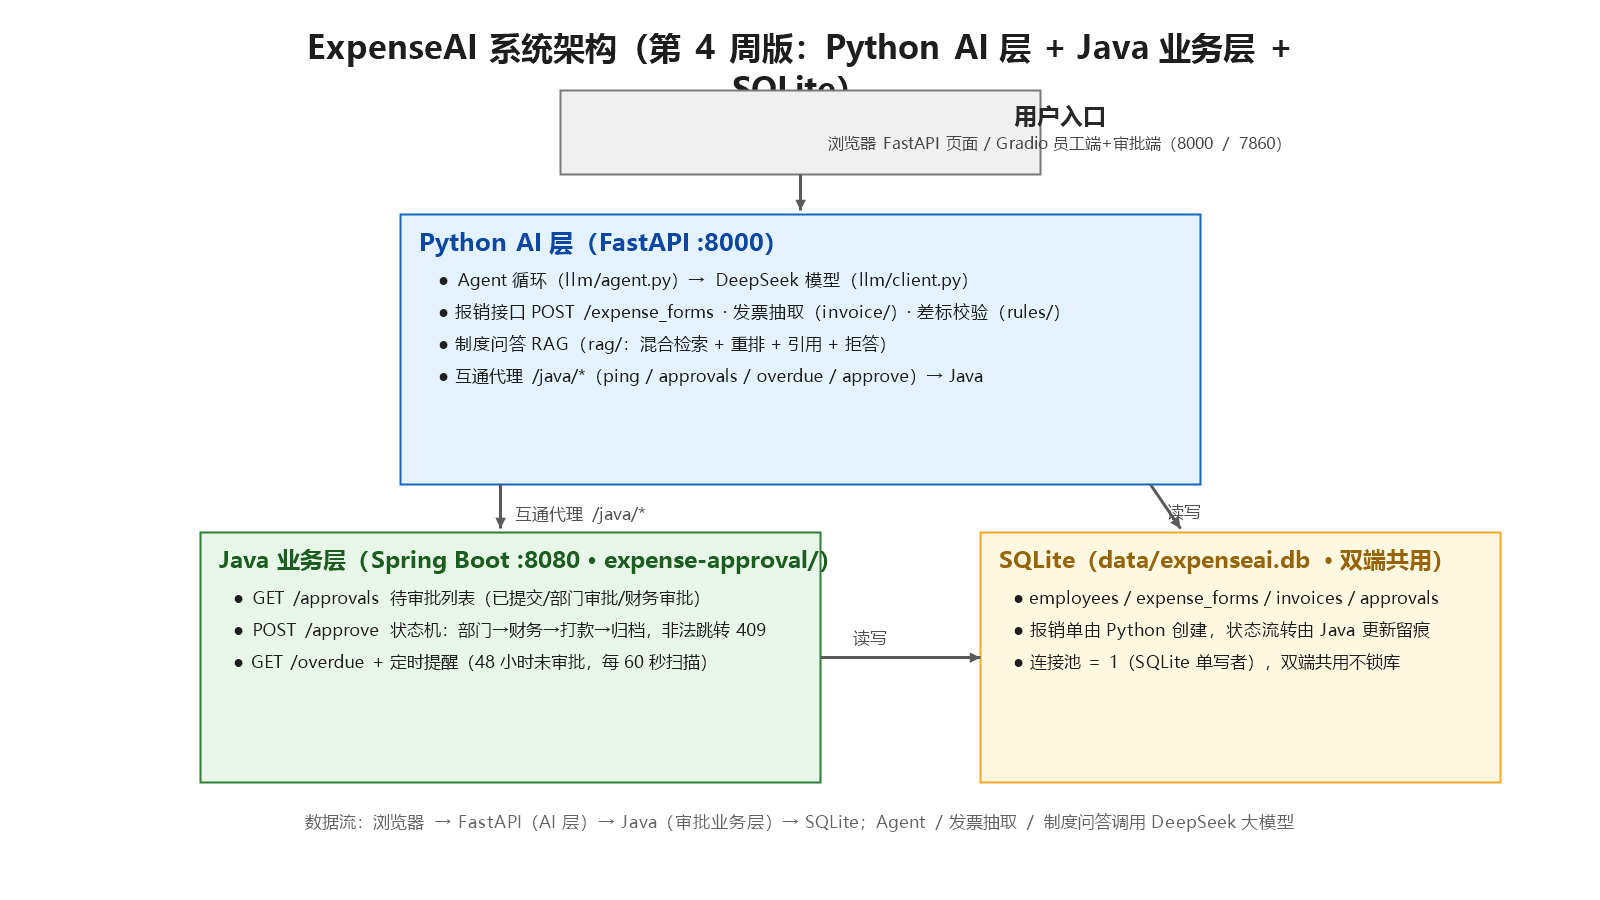
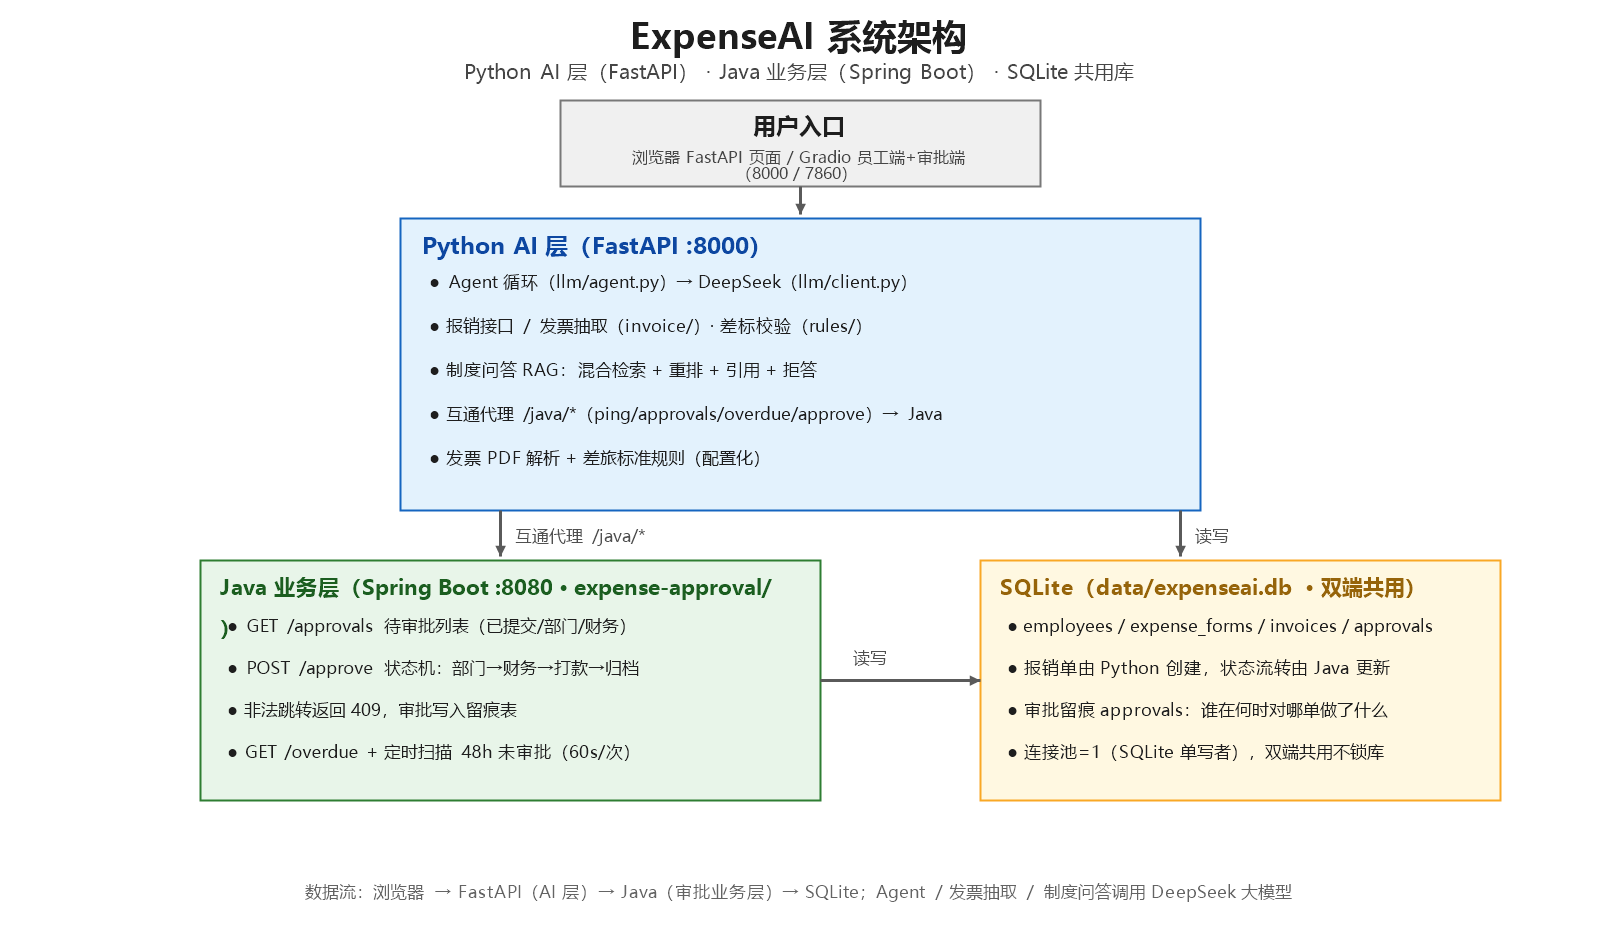
更新架构图

diff --git a/README.md b/README.md
@@ -43,7 +43,7 @@
 - Java 21 + Spring Boot 4（expense-approval/，Maven Wrapper 免装 Maven）
 - 一键启动 start.bat（Day 25）
 
-## 架构图（第 4 周版）
+## 架构图
 
 ![ExpenseAI 架构图](docs/architecture-day26.png)
 
